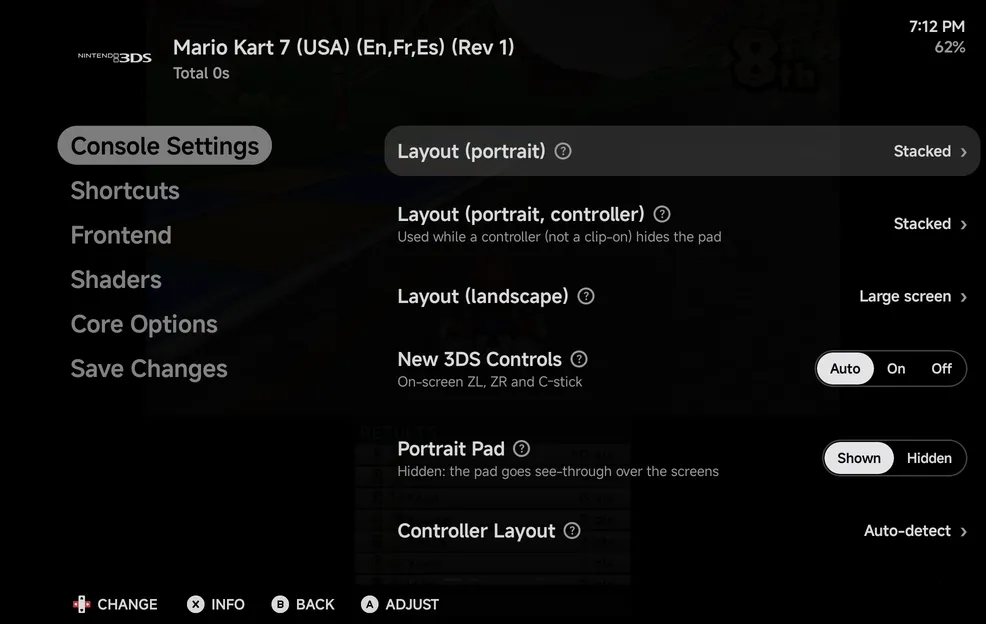
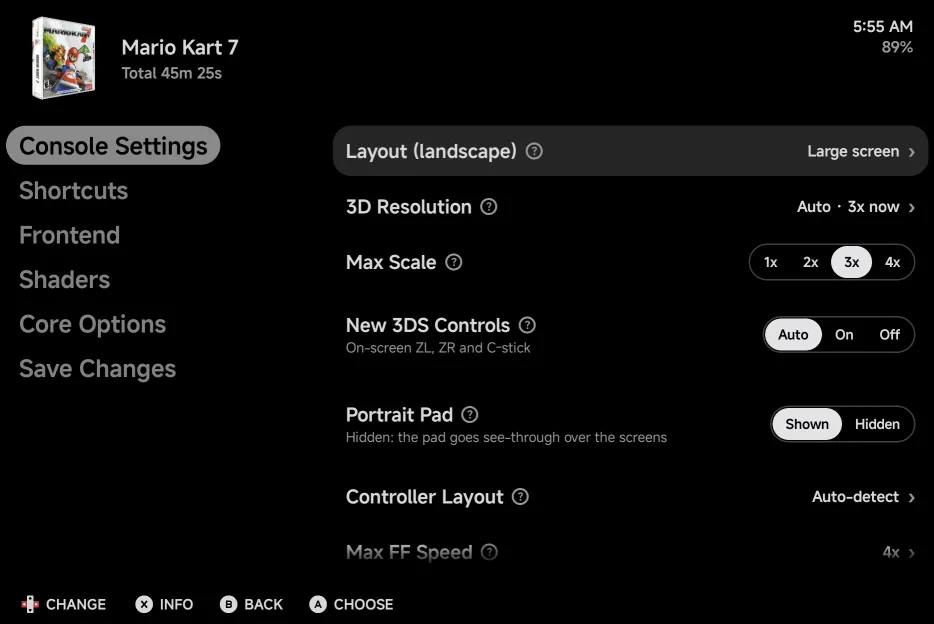
3DS page: Console Settings screenshot retaken (one Layout row, 3D Resolution), cutout margin cropped

diff --git a/docs/mobile/emulators/nintendo-3ds.md b/docs/mobile/emulators/nintendo-3ds.md
@@ -132,10 +132,7 @@ back to the game. Turn the phone or pick another layout and the row follows. Emu
 Settings and Game Settings list every row, so you can set up each
 orientation there.
 
-![Console Settings of a 3DS game in landscape, an earlier version of the page: all three Layout rows, New 3DS Controls and Portrait Pad, with Controller Layout below](../../assets/screenshots/mobile/3ds-console-settings.webp){ .nx-wide }
-
-This picture predates 3D Resolution and the in-game filter: a game now lists
-one Layout row, with the 3D Resolution rows under it.
+![Console Settings in Mario Kart 7 on the Fold's cover screen: the landscape Layout row, 3D Resolution at Auto · 3x now with Max Scale, New 3DS Controls, Portrait Pad and Controller Layout](../../assets/screenshots/mobile/3ds-console-settings.webp){ .nx-wide }
 
 | Row | Values | Default | See |
 | --- | --- | --- | --- |
